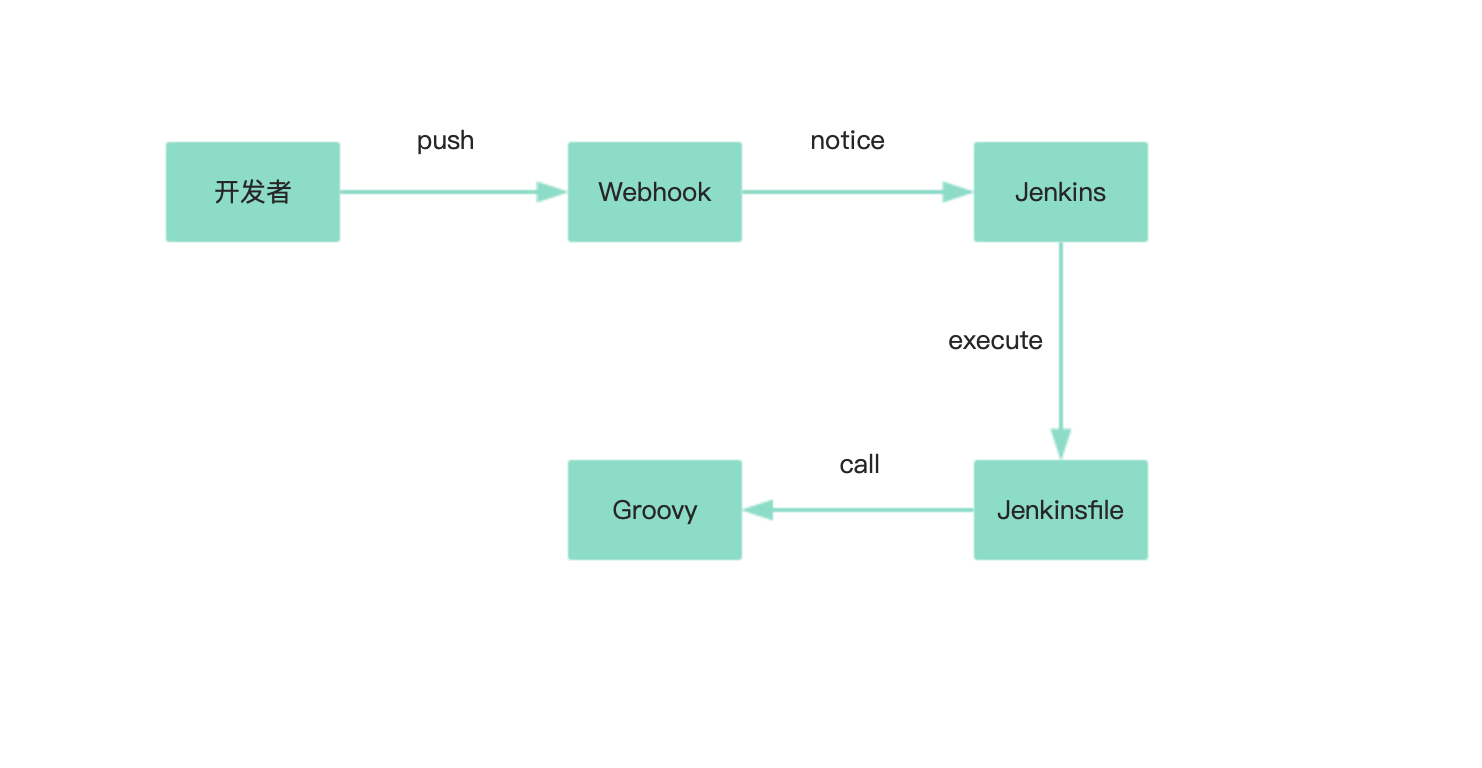
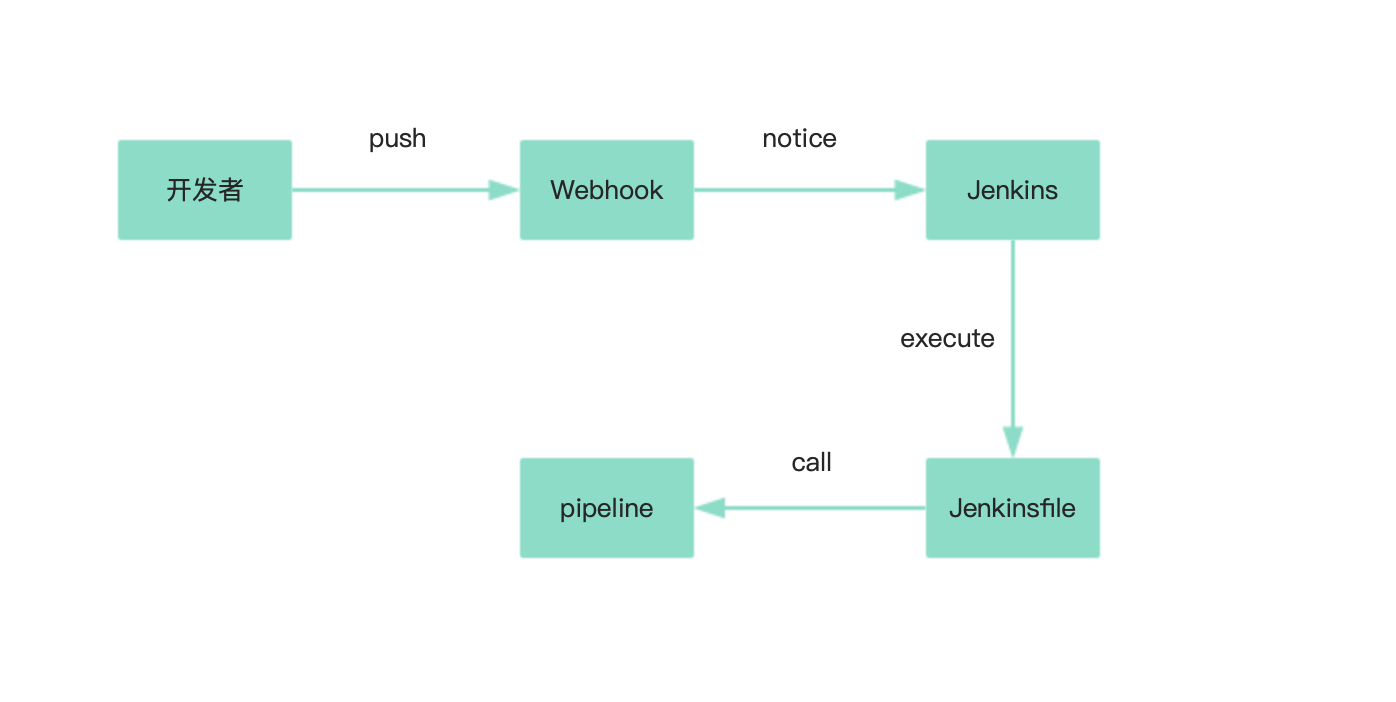
fix(ci): all

Changed region(s): [[0.0616, 0.1496, 0.8009, 0.8077], [0.5544, 0.5983, 0.5852, 0.6282]]

diff --git a/Shopee/CI.md b/Shopee/CI.md
@@ -5,7 +5,7 @@
 如果我要部署自己的博客，一般需要以下几步：
 
 1. 使用 webpack 编译代码，产出静态资源
-2. 打开 FTP 软件，上传替换文件
+2. 打开 FTP 软件，上传服务器替换文件
 3. 看看网站是否在线上工作正常
 4. 将本地代码提交
 
@@ -13,14 +13,22 @@
 随之而来的问题：
 
 1. 手动部署成本太高
-2. 需要手动维护环境
-3. 难以排查线上问题
+2. 本地和线上环境可能会不一致
+3. 遇到线上问题难以排查
+
+
+该怎么解决这些问题呢？
 
 
 
 ## 虚拟机
 
-一般是通过某种软件来实现，仿真出一台或者多台计算机的各种硬件，这就是虚拟机。
+
+虚拟机一般是通过某种软件来实现的。
+
+通过硬件虚拟化的功能，可以模拟出一台或者多台计算机的各种硬件。
+
+在上面安装一个新的操作系统，即 Guest OS。
 
 用户可以在这一台虚拟机上安装、运行操作系统和各种应用，解决了环境不一致的问题。
 
@@ -36,6 +44,7 @@
 
 
 ## Docker
+
 
 在一艘大船上，可以把货物放到集装箱中，集装箱彼此之间不会互相影响。
 
@@ -62,10 +71,29 @@ Docker 技术的三大核心概念，分别是：
 3. 仓库（Repository）
 
 
-## 镜像
+![docker](../assets/images/docker.png)
 
 
-## 容器
+一个 Dockerfile 文件：
+
+```
+FROM nginx
+
+COPY ./index.html /usr/share/nginx/html/index.html
+
+EXPOSE 80
+```
+
+
+一个完整的 Docker 运行：
+
+```
+docker image build ./ -t my-docker:1.0.0 # 打包镜像
+
+docker container create -p 8080:80 my-docker:1.0.0 # 创建容器
+
+docker container start xxx # xxx 为上条命令运行的结果
+```
 
 
 
@@ -109,13 +137,25 @@ Docker 技术的三大核心概念，分别是：
 ![image](../assets/images/CI.jpg)
 
 
+引入 CI/CD 以后，整个流程变成：
+
+1. 本地机器上写代码
+2. 提交代码，push 到 git 远程仓库
+3. git hook 触发 jenkins 的构建 job （自动）
+4. jenkins job 中拉取项目代码，运行 npm run build，如果失败，发送邮件通知相关人。（自动）
+5. jenkins job 中执行测试服务器的部署脚本 （自动）
+
+
 
 ## Webhook
 
 > Events are at the core of webhooks. These webhooks fire whenever a certain action is taken on the repository, which your server's payload URL intercepts and acts upon.
 
 
+CI/CD 的关键在于自动化，使用脚本来自动化构建、部署，而 Webhook 则起到了中间桥梁的作用。
+
 Webhook 简单来说就是一种反向 API 机制，是在特定情况下触发的一种 API，类似于触发器。
+
 
 ![Webhook](../assets/images/webhook.png)
 
@@ -132,15 +172,14 @@ Travis CI 提供的是持续集成服务（Continuous Integration，简称 CI）
 
 它绑定 Github 上面的项目，只要有新的代码，就会自动抓取。
 
-然后，提供一个运行环境，执行测试，完成构建，还能部署到服务器。
+
+提供一个运行环境，完成构建，还能部署到服务器。
+
+这些行为都可以在项目根目录的 .travis.yml 配置文件里面指定。
 
 
 ![Travis CI](../assets/images/travis.png)
 
-
-Travis 要求项目的根目录下面，必须有一个.travis.yml文件。
-
-这是配置文件，指定了 Travis 的行为。
 
 一般有下面几个阶段：
 
@@ -161,12 +200,12 @@ Travis 要求项目的根目录下面，必须有一个.travis.yml文件。
 GitHub 把这些操作就称为 actions。
 
 
-GitHub 提供了[官方市场](https://github.com/marketplace?type=actions)，允许开发者把每个操作写成独立的脚本文件，存放到代码仓库，使得其他开发者可以引用。
+在这个仓库的 .github/workflows 目录，生成一个 workflow 的 yml 文件，即可以使用 Github Actions。
 
 整个持续集成过程，就变成了一个 actions 的组合。
 
 
-使用 Github Actions 在这个仓库的 .github/workflows 目录，生成一个 workflow 文件，也是 `yaml` 语法。
+GitHub 还提供了[官方市场](https://github.com/marketplace?type=actions)，允许开发者把每个操作写成独立的脚本文件，存放到代码仓库，使得其他开发者可以引用。
 
 
 GitHub Actions 有一些自己的术语。
@@ -186,15 +225,102 @@ GitHub Actions 有一些自己的术语。
 ![action-log](../assets/images/action-log.png)
 
 
+
 ## Jenkins
+
+
+Jenkins 是一个基于 Java 开发的持续集成工具，用于监控持续重复的工作。
+
+旨在提供一个开放易用的软件平台，使软件的持续集成变成可能。
+
+
+通常与版本管理工具(SCM)、构建工具结合使用。
+
+常用的版本控制工具有 SVN、GIT，构建工具有Maven、Ant、Gradle。
+
+依托于 Jenkins 的平台，可以使用各种插件和脚本来实现自动化的构建、部署流程。
 
 
 
 ## Jenkins 流水线（pipeline）
 
+
 Pipeline，简而言之，就是一套运行于Jenkins上的工作流框架。
 
 将原本独立运行于单个或者多个节点的任务连接起来，实现单个任务难以完成的复杂流程编排与可视化。
+
+Pipeline 允许编写更加灵活的脚本，去控制整个工作流程。
+
+
+Jenkins pipeline 有两种语法：
+
+1. Declarative 声明式（偏配置化）
+
+2. Scripted Pipeline 脚本式（基于 Groovy 语言）
+
+
+声明式：
+
+```
+#!/usr/bin/env groovy
+
+pipeline {
+    //  声明参数 
+    parameters {
+        string(name:'dev_server', defaultValue: 'IP,Port,Name,Passwd', description: '开发服务器(IP,Port,Name,Passwd)')
+        string(name:'alT19_server', defaultValue: 'IP,Port,Name,Passwd', description: ' 生产服务器(IP,Port,Name,Passwd)')
+    }
+    environment {
+        TEST_EMAIL='Tester'
+    }
+    stages {
+        stage('Checkout') {
+            steps {
+                script {
+                // 拉取代码
+            }
+        }
+        stage('构建') {
+            steps {
+                sh "mvn -Dmaven.test.failure.ignore clean install"
+            }
+        }
+        stage('部署到测试环境') {
+            steps {
+                echo 'Deploying to test_server'
+            }
+        }
+        stage('部署生产环境') {
+            steps {
+                echo 'Deploying to prod_server'
+            }
+        }
+    }   
+}
+```
+
+
+stage 是每个 pipeline 阶段，steps 则是对 stage 的描述，而 script 则是一些 Groovy 的逻辑脚本。
+
+![stage](../assets/images/stage.png)
+
+
+脚本式：
+
+```
+node {
+    stage('Example') {
+        if (env.BRANCH_NAME == 'master') {
+            echo 'I only execute on the master branch'
+        } else {
+            echo 'I execute elsewhere'
+        }
+    }
+}
+```
+
+
+我们项目中的：
 
 ![jenkins_pipeline](../assets/images/jenkins.png)
 
